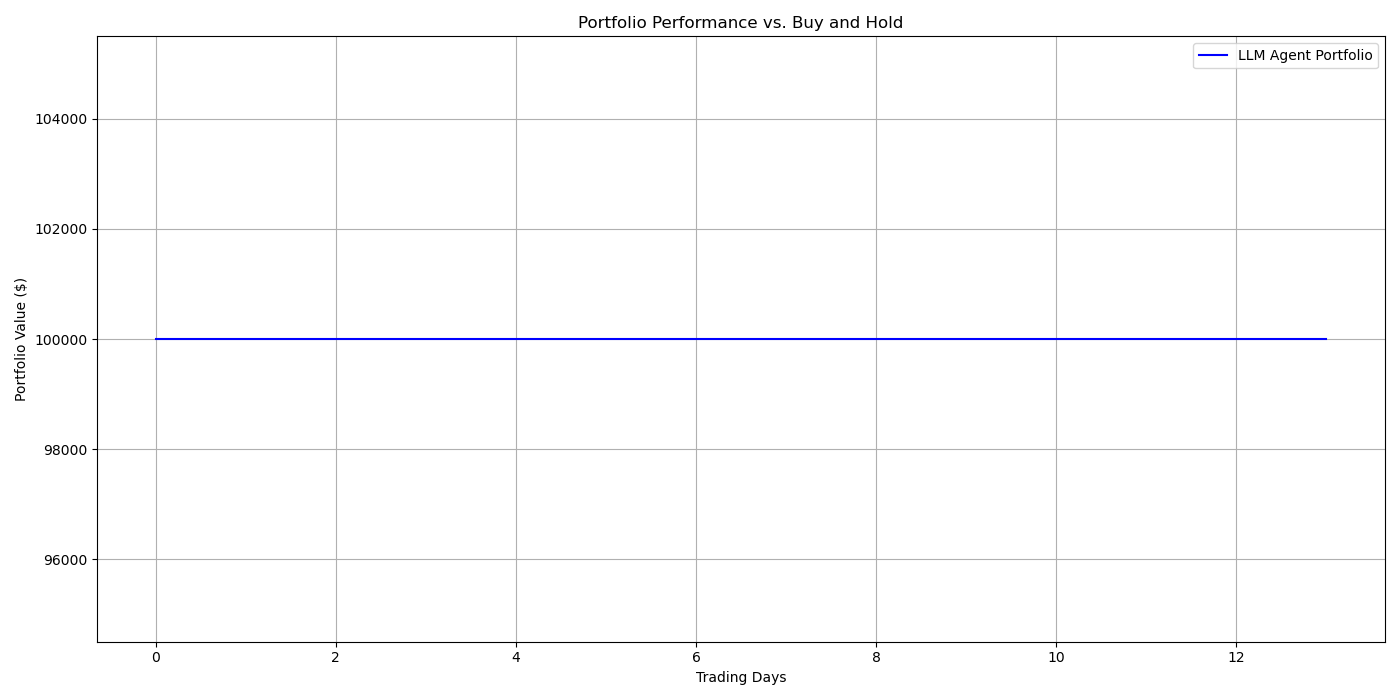
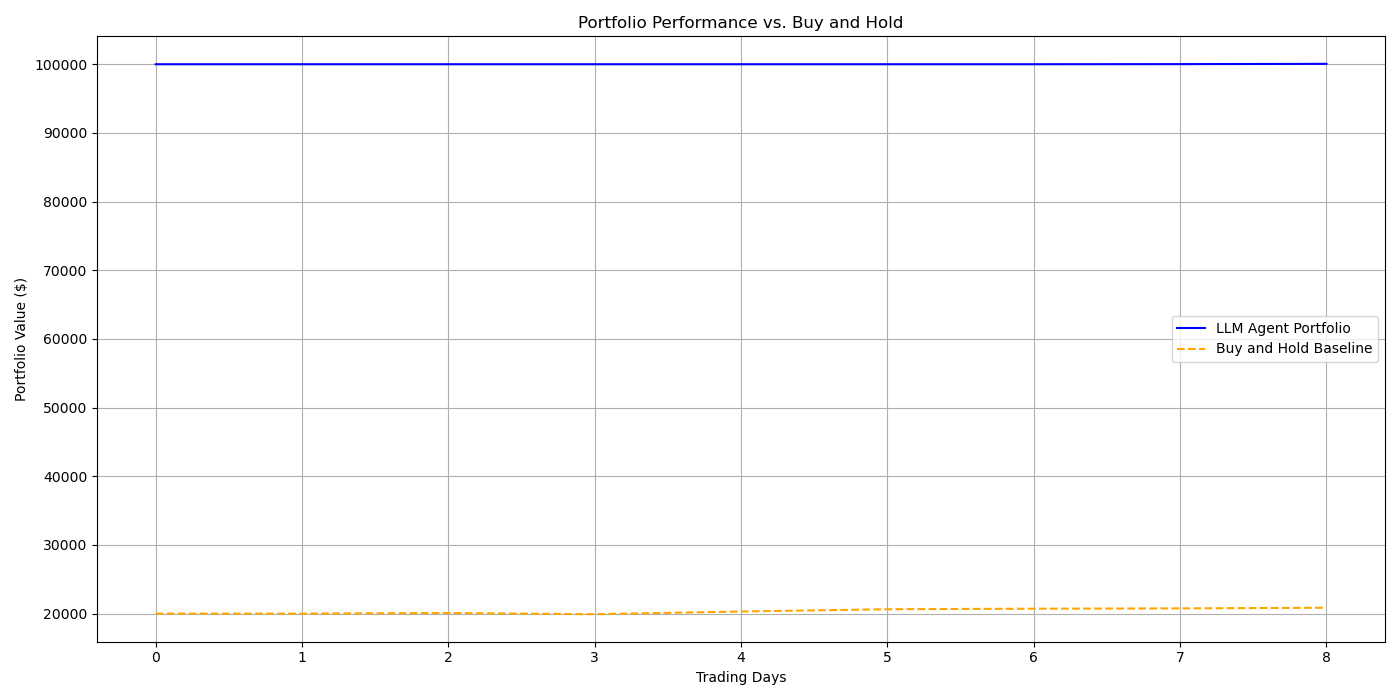
feat: Implement configurable LLM and fix analysis bugs

diff --git a/src/llm_agent.py b/src/llm_agent.py
@@ -1,46 +1,90 @@
 import google.generativeai as genai
-from config import GEMINI_API_KEY
+from openai import OpenAI # Correct import for modern client
+from config import LLM_PROVIDER, GEMINI_API_KEY, OPENAI_API_KEY
 from logger import log
 
-# Configure the Gemini API
-if GEMINI_API_KEY:
-    genai.configure(api_key=GEMINI_API_KEY)
-    log.info("Gemini API configured.")
+# --- Client Initialization ---
+gemini_client = None
+openai_client = None
+
+if LLM_PROVIDER == 'gemini':
+    if GEMINI_API_KEY:
+        genai.configure(api_key=GEMINI_API_KEY)
+        # --- FIX: Update the model name ---
+        gemini_client = genai.GenerativeModel('gemini-2.5-flash-lite')
+        log.info("LLM Provider: Gemini. Client initialized with model 'gemini-2.5-flash-lite'.")
+    else:
+        log.warning("LLM_PROVIDER is 'gemini' but GEMINI_API_KEY is not set.")
+elif LLM_PROVIDER == 'openai':
+    if OPENAI_API_KEY:
+        openai_client = OpenAI(api_key=OPENAI_API_KEY) # Correct client instantiation
+        log.info("LLM Provider: OpenAI. Client initialized.")
+    else:
+        log.warning("LLM_PROVIDER is 'openai' but OPENAI_API_KEY is not set.")
+else:
+    log.warning(f"LLM_PROVIDER '{LLM_PROVIDER}' is not supported. Using dummy response mode.")
+
 
 def get_llm_decision(prompt):
     """
-    Gets trading decisions from the LLM.
-    This function sends the aggregated, summarized prompt to the LLM API.
+    Gets trading decisions from the configured LLM provider.
     """
-    if not GEMINI_API_KEY:
-        log.warning("GEMINI_API_KEY not found. Returning a dummy JSON response for testing.")
-        dummy_response = """
-        {
-          "AAPL": {"decision": "HOLD", "reasoning": "Dummy response: Market is stable, holding position.", "confidence": 0.7},
-          "MSFT": {"decision": "BUY", "reasoning": "Dummy response: Positive news indicates potential growth.", "confidence": 0.6},
-          "NVDA": {"decision": "SELL", "reasoning": "Dummy response: Stock appears overbought.", "confidence": 0.5},
-          "TSLA": {"decision": "HOLD", "reasoning": "Dummy response: High volatility, waiting for clearer signals.", "confidence": 0.8},
-          "AMZN": {"decision": "BUY", "reasoning": "Dummy response: Strong fundamentals and recent positive news.", "confidence": 0.75}
-        }
-        """
-        return dummy_response
+    if LLM_PROVIDER == 'gemini' and gemini_client:
+        return _get_gemini_decision(prompt)
+    elif LLM_PROVIDER == 'openai' and openai_client:
+        return _get_openai_decision(prompt)
+    else:
+        log.warning(f"No valid LLM client initialized. Returning a dummy JSON response.")
+        return _get_dummy_response()
 
+def _get_gemini_decision(prompt):
+    """Handles the API call to Google Gemini."""
     try:
         log.info("Sending prompt to Gemini API...")
-        log.debug(f"Prompt content:\n{prompt}")
-        model = genai.GenerativeModel('gemini-pro')
-        response = model.generate_content(prompt)
+        response = gemini_client.generate_content(prompt)
         log.info("Received response from Gemini API.")
         log.debug(f"Response content:\n{response.text}")
         return response.text
     except Exception as e:
         log.error(f"Error calling Gemini API: {e}", exc_info=True)
-        return None # Indicate failure
+        return _get_dummy_response()
+
+def _get_openai_decision(prompt):
+    """Handles the API call to OpenAI using the modern client."""
+    try:
+        log.info("Sending prompt to OpenAI API...")
+        response = openai_client.chat.completions.create(
+            model="gpt-3.5-turbo",
+            messages=[
+                {"role": "system", "content": "You are a financial analyst providing responses in clean JSON format."},
+                {"role": "user", "content": prompt}
+            ]
+        )
+        log.info("Received response from OpenAI API.")
+        decision = response.choices[0].message.content
+        log.debug(f"Response content:\n{decision}")
+        return decision
+    except Exception as e:
+        log.error(f"Error calling OpenAI API: {e}", exc_info=True)
+        return _get_dummy_response()
+
+def _get_dummy_response():
+    """Returns a dummy JSON response for testing or in case of API failure."""
+    return """
+    {
+      "AAPL": {"decision": "HOLD", "reasoning": "Dummy response: Market is stable.", "confidence": 0.7},
+      "MSFT": {"decision": "BUY", "reasoning": "Dummy response: Positive news.", "confidence": 0.6},
+      "NVDA": {"decision": "SELL", "reasoning": "Dummy response: Overbought.", "confidence": 0.5},
+      "TSLA": {"decision": "HOLD", "reasoning": "Dummy response: Volatile.", "confidence": 0.8},
+      "AMZN": {"decision": "BUY", "reasoning": "Dummy response: Strong fundamentals.", "confidence": 0.75}
+    }
+    """
 
 def construct_master_prompt(portfolio, market_data, news_summaries):
     """
     Constructs the single master prompt for the LLM, aggregating all data.
     """
+    # This function remains the same as it is provider-agnostic.
     log.debug("Constructing master prompt...")
     prompt = f"""
     **Objective:** Act as a financial analyst and decide whether to BUY, SELL, or HOLD for each stock in the portfolio. Provide your response in a single, clean JSON object.
@@ -58,7 +102,6 @@ def construct_master_prompt(portfolio, market_data, news_summaries):
     """
 
     for ticker, data in market_data.items():
-        # The 'news_summaries' now directly contain the aggregated descriptions
         news_summary = news_summaries.get(ticker, "No relevant news today.")
         prompt += f"""
         ---

diff --git a/src/llm_demo.py b/src/llm_demo.py
@@ -1,64 +1,36 @@
-import requests
-import json
-from dotenv import load_dotenv
+import sys
 import os
 
+# Add the project root to the Python path to allow importing from 'src'
+sys.path.append(os.path.dirname(os.path.dirname(os.path.abspath(__file__))))
 
-from Util.utils import read_yaml
+from src.llm_agent import get_llm_decision
+from src.logger import log
+from config import LLM_PROVIDER
 
-# Note: 'import yaml' is no longer needed here
+def run_demo():
+    """
+    A simple demonstration script to test the LLM provider configured for the project.
+    """
+    log.info("--- LLM Provider Demo ---")
+    log.info(f"Using configured LLM Provider: {LLM_PROVIDER.upper()}")
 
-load_dotenv()
-OPEN_ROUTER_KEY = os.getenv('OPEN_ROUTER_KEY')
+    # A simple, non-financial prompt to test the connection and response.
+    test_prompt = "Explain how AI works in a few words."
 
-# --- 2. Load the model name from the config file ---
-try:
-    config = read_yaml('../config.yaml')  # <-- 3. Use the new function
-    model_name = config['model'][1]  # <-- 4. Get the model key
+    log.info(f"Sending the following prompt to the LLM:\n---_n{test_prompt}\n---")
 
-except FileNotFoundError:
-    print("Error: config.yaml not found.")
-    exit()
-except KeyError:
-    print("Error: 'model' key not found in config.yaml.")
-    exit()
-except Exception as e:
-    # This will catch YAML parsing errors or other issues
-    print(f"An error occurred loading config: {e}")
-    exit()
-# ----------------------------------------------------
+    # Use the same function as the backtester to get the LLM decision.
+    # This ensures we are testing the exact same logic.
+    response = get_llm_decision(test_prompt)
 
+    if response:
+        log.info("Received response from LLM:")
+        # Use the logger to print the response.
+        # The logger will handle multi-line printing gracefully.
+        log.info(f"\n---\n{response}\n---")
+    else:
+        log.error("Did not receive a valid response from the LLM.")
 
-if not OPEN_ROUTER_KEY:
-    print("Error: OPEN_ROUTER_KEY not found. Check your .env file.")
-else:
-    try:
-        response = requests.post(
-            url="https://openrouter.ai/api/v1/chat/completions",
-            headers={
-                "Authorization": f"Bearer {OPEN_ROUTER_KEY}",
-                "Content-Type": "application/json"
-            },
-            data=json.dumps({
-                "model": model_name,  # <-- 5. The variable is used here
-                "messages": [
-                    {
-                        "role": "user",
-                        "content": "What is the meaning of life?"
-                    }
-                ],
-            })
-        )
-
-        response.raise_for_status()
-
-        # Print just the message content
-        json_response = response.json()
-        message_content = json_response['choices'][0]['message']['content']
-        print(message_content)
-
-    except requests.exceptions.HTTPError as http_err:
-        print(f"HTTP error occurred: {http_err}")
-        print(f"Response content: {response.text}")
-    except Exception as err:
-        print(f"An error occurred: {err}")
+if __name__ == "__main__":
+    run_demo()

diff --git a/src/main.py b/src/main.py
@@ -17,10 +17,13 @@ def main():
     """
     log.info("--- Starting NASDAQ LLM Trader Simulation ---")
 
+    start_date_str = SIMULATION_START_DATE.strftime('%Y-%m-%d')
+    end_date_str = SIMULATION_END_DATE.strftime('%Y-%m-%d')
+
     # Run the backtest
     portfolio_history = run_backtest(
-        start_date=SIMULATION_START_DATE.strftime('%Y-%m-%d'),
-        end_date=SIMULATION_END_DATE.strftime('%Y-%m-%d')
+        start_date=start_date_str,
+        end_date=end_date_str
     )
 
     if not portfolio_history:
@@ -37,26 +40,37 @@ def main():
         log.info(f"- {metric}: {value}")
 
     # 2. Create and Analyze Buy-and-Hold Baseline
+    baseline_history = [] # Initialize baseline_history to an empty list
     try:
         market_data = load_market_data()
-        simulation_dates = pd.to_datetime(market_data.index.unique())
-        simulation_dates = simulation_dates[(simulation_dates >= pd.to_datetime(SIMULATION_START_DATE)) & (simulation_dates <= pd.to_datetime(SIMULATION_END_DATE))]
+        
+        market_data['Date'] = pd.to_datetime(market_data['Date'])
+        simulation_dates_df = market_data[
+            (market_data['Date'] >= pd.to_datetime(start_date_str)) & 
+            (market_data['Date'] <= pd.to_datetime(end_date_str))
+        ]
+        simulation_dates = simulation_dates_df['Date'].unique()
 
-        baseline_history = create_buy_and_hold_baseline(INITIAL_CASH, market_data, TICKERS, simulation_dates)
-        baseline_metrics = calculate_metrics(baseline_history)
-        log.info("Buy-and-Hold Baseline Metrics:")
-        for metric, value in baseline_metrics.items():
-            log.info(f"- {metric}: {value}")
-
-        # 3. Plot Results
-        log.info("Generating performance plot...")
-        plot_performance(portfolio_history, baseline_history)
-        log.info("Plot generated and displayed.")
+        if len(simulation_dates) > 0:
+            # --- FIX: Assign the result to the baseline_history variable ---
+            baseline_history = create_buy_and_hold_baseline(INITIAL_CASH, market_data, TICKERS, simulation_dates)
+            baseline_metrics = calculate_metrics(baseline_history)
+            log.info("Buy-and-Hold Baseline Metrics:")
+            for metric, value in baseline_metrics.items():
+                log.info(f"- {metric}: {value}")
+        else:
+            log.warning("No simulation dates found for baseline calculation.")
 
     except FileNotFoundError as e:
         log.error(f"Could not create baseline: {e}")
     except Exception as e:
         log.error(f"An error occurred during analysis: {e}", exc_info=True)
+
+    # 3. Plot Results
+    # Now, baseline_history will correctly contain the data or be an empty list
+    log.info("Generating performance plot...")
+    plot_performance(portfolio_history, baseline_history)
+    log.info("Plot generated and displayed.")
 
 
 if __name__ == "__main__":

diff --git a/src/analysis.py b/src/analysis.py
@@ -17,18 +17,13 @@ def calculate_metrics(portfolio_history, risk_free_rate=0.02):
         log.warning("No returns were generated, cannot calculate metrics.")
         return {}
 
-    # Cumulative Return
     cumulative_return = (portfolio_history[-1] / portfolio_history[0]) - 1
-
-    # Max Drawdown
     rolling_max = pd.Series(portfolio_history).cummax()
     daily_drawdown = pd.Series(portfolio_history) / rolling_max - 1.0
     max_drawdown = daily_drawdown.min()
-
-    # Sortino Ratio
     downside_returns = returns[returns < 0]
     downside_std = downside_returns.std()
-    annualized_return = returns.mean() * 252 # Assuming 252 trading days
+    annualized_return = returns.mean() * 252
 
     if downside_std > 0:
         sortino_ratio = (annualized_return - (risk_free_rate / 252)) / downside_std * np.sqrt(252)
@@ -63,18 +58,17 @@ def plot_performance(portfolio_history, baseline_history):
     plt.legend()
     plt.grid(True)
     plt.tight_layout()
-    # Instead of plt.show() which blocks execution, we'll save the figure.
-    # This is better for non-interactive environments.
     plot_filename = "logs/performance_plot.png"
     plt.savefig(plot_filename)
     log.info(f"Performance plot saved to {plot_filename}")
-    plt.close() # Close the plot to free up memory
+    plt.close()
 
 def create_buy_and_hold_baseline(initial_investment, market_data, tickers, simulation_dates):
     """
     Creates a baseline portfolio that buys and holds the target stocks.
     """
-    if simulation_dates.empty:
+    # --- FIX 1: Check list length correctly ---
+    if len(simulation_dates) == 0:
         log.warning("Simulation dates are empty, cannot create baseline.")
         return []
 
@@ -82,7 +76,8 @@ def create_buy_and_hold_baseline(initial_investment, market_data, tickers, simul
     investment_per_ticker = initial_investment / len(tickers)
     shares_to_buy = {}
 
-    first_day_data = market_data[market_data.index == simulation_dates[0]]
+    # --- FIX 2: Filter by 'Date' column, not index ---
+    first_day_data = market_data[market_data['Date'] == simulation_dates[0]]
     if first_day_data.empty:
         log.error("No market data for the first simulation day. Cannot create baseline.")
         return []
@@ -100,7 +95,8 @@ def create_buy_and_hold_baseline(initial_investment, market_data, tickers, simul
     baseline_history = []
     for date in simulation_dates:
         daily_value = 0
-        current_day_data = market_data[market_data.index == date]
+        # --- FIX 3: Filter by 'Date' column, not index ---
+        current_day_data = market_data[market_data['Date'] == date]
         for ticker, shares in shares_to_buy.items():
             ticker_data = current_day_data[current_day_data['ticker'] == ticker]
             if not ticker_data.empty:

diff --git a/config.py b/config.py
@@ -3,6 +3,18 @@ from dotenv import load_dotenv
 
 load_dotenv()
 
+# --- API Keys ---
 NEWS_API_KEY = os.getenv("NEWS_API_KEY")
 FINNHUB_API_KEY = os.getenv("FINNHUB_API_KEY")
 GEMINI_API_KEY = os.getenv("GEMINI_API_KEY")
+OPENAI_API_KEY = os.getenv("OPENAI_API_KEY")
+
+# --- LLM Configuration ---
+# The LLM provider to use. Can be "gemini" or "openai".
+# Set this in your .env file. Defaults to "gemini".
+LLM_PROVIDER = os.getenv("LLM_PROVIDER", "gemini").lower()
+
+# --- Development Configuration ---
+# Set to "True" to use dummy LLM responses and avoid API costs during testing.
+# Defaults to False.
+DEV_MODE = os.getenv("DEV_MODE", "False").lower() in ('true', '1', 't')

diff --git a/src/backtester.py b/src/backtester.py
@@ -125,8 +125,8 @@ def run_backtest(start_date, end_date):
         try:
             clean_response = llm_response_str.strip().replace('```json', '').replace('```', '')
             decisions = json.loads(clean_response)
-            log.info("Successfully parsed LLM decisions.")
-            log.debug(f"Decisions: {decisions}")
+            # --- IMPROVEMENT: Log the parsed decisions clearly ---
+            log.info(f"LLM Decisions Parsed: {decisions}")
         except (json.JSONDecodeError, TypeError, AttributeError) as e:
             log.error(f"Failed to decode LLM response: {e}. Response was: {llm_response_str}")
             decisions = {}

diff --git a/scripts/collect_data.py b/scripts/collect_data.py
@@ -39,7 +39,6 @@ def collect_market_data():
         try:
             stock_data = yf.download(ticker, start=START_DATE, end=END_DATE, progress=False)
             
-            # --- FIX: Add check for empty DataFrame ---
             if stock_data.empty:
                 log.warning(f"No data downloaded for {ticker}. It might be delisted or the ticker is incorrect.")
                 continue
@@ -61,7 +60,6 @@ def collect_market_data():
     df.to_csv(MARKET_DATA_PATH, index=False)
     log.info(f"Market data saved correctly to: {MARKET_DATA_PATH}")
     
-    # --- FIX: Safer logging ---
     try:
         log.info(f"CSV Header: {', '.join(df.columns)}")
     except TypeError:
@@ -70,7 +68,6 @@ def collect_market_data():
 
 def collect_news_data():
     """Fetches news articles for the target stocks."""
-    # This function is assumed to be working correctly.
     log.info(f"Fetching news data for {TICKERS}")
     if not NEWS_API_KEY:
         log.error("NEWS_API_KEY not found. Please set it in your .env file. Skipping news collection.")